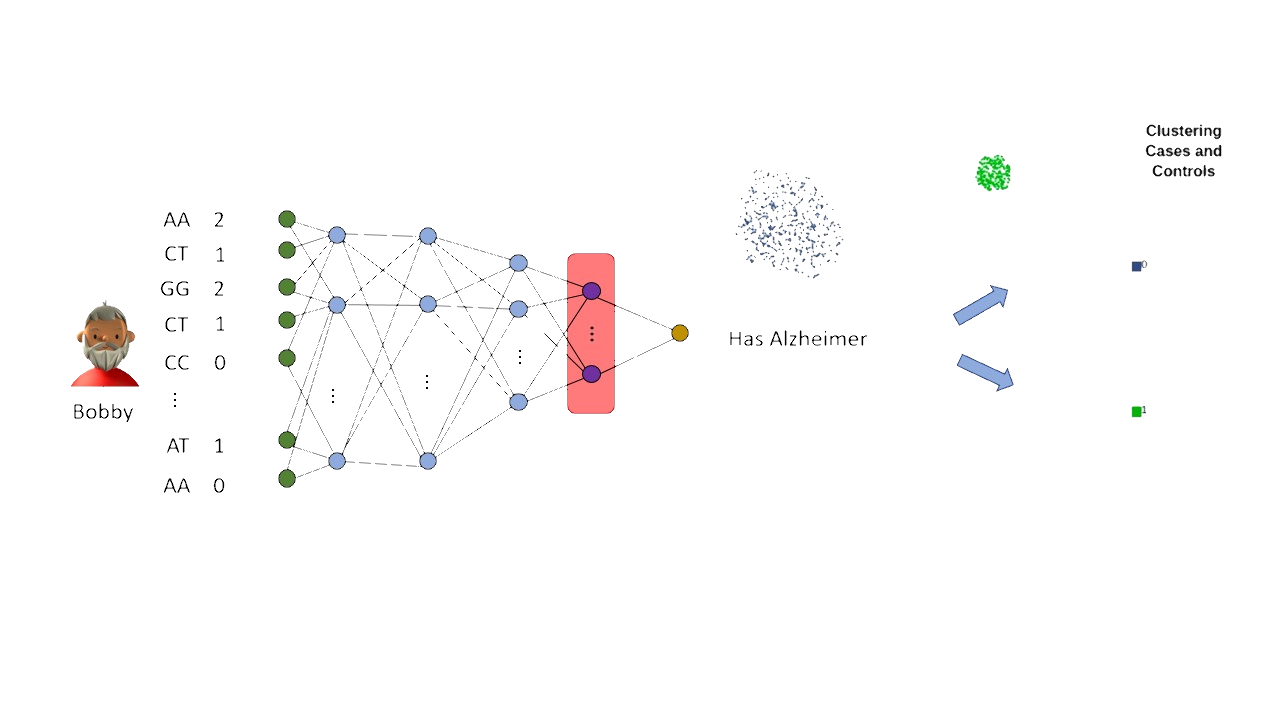
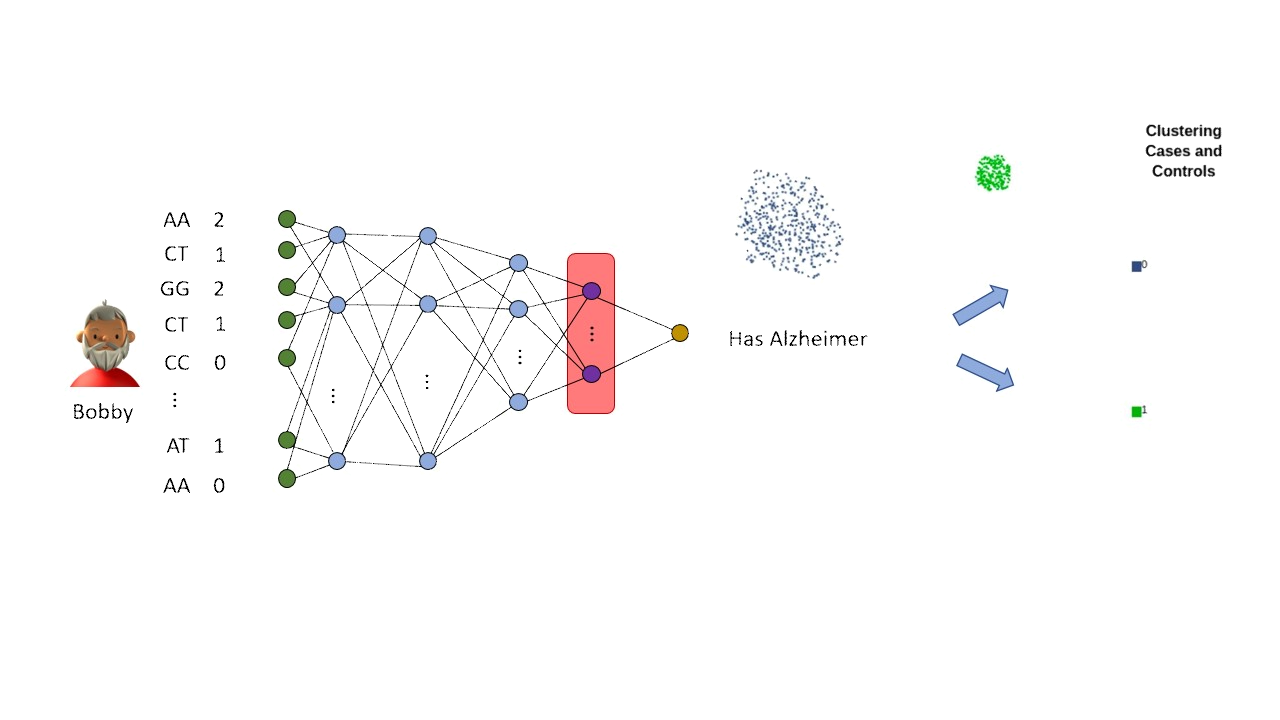
going strong

diff --git a/phd_project/index.html b/phd_project/index.html
@@ -106,9 +106,9 @@
           </section>
           <section>
             <h1 style="font-size:40px">
-              Introducing machine learning
+              Introducing deep learning
             </h1>
-            <img class="cropped_prs" data-src="img/04_interaction.png">
+            <img class="cropped_nn" data-src="img/06_NN.png">
           </section>
       </section>
 
@@ -120,14 +120,22 @@
           </h1>
         </section>
         <section>
-          <p style="font-size:20px">
+          <h1 style="font-size:40px">
             Autoencoder
+          </h1>
+          <p style="font-size:20px">
+            Dimensionality reduction deep learning model
           </p>
+          <img class="cropped_auto" data-src="img/07_total_project.png">
         </section>
         <section>
-          <p style="font-size:20px">
+          <h1 style="font-size:40px">
             Clustering and novel method for PRS
+          </h1>
+          <p style="font-size:20px">
+            Finding centroïdes
           </p>
+          <img class="cropped_centr" data-src="img/08_novel_prs.png">
         </section>
       </section>
 
@@ -139,15 +147,22 @@
           </h1>
         </section>
         <section>
+          <h1 style="font-size:40px">
+            Population stratification and Linkage Disequilibrium
+          </h1>
           <p style="font-size:20px">
-            Linkage desiquilibrium
+            Genomics: biased introduced
           </p>
+          <img class="cropped_ld" data-src="img/09_pop_strat_and_LD.png">
+        </section>
+        <section>
+          <h1 style="font-size:40px">
+            The curse of dimensionnality
+          </h1>
           <p style="font-size:20px">
-            Population stratification
+            ML: Terrible performance when too many features
           </p>
-          <p style="font-size:20px">
-            The curse of dimesionnality
-          </p>
+          <img class="cropped_curse" data-src="img/10_curse.png">
         </section>
       </section>
 <!--  Slide 07 Testing it out -->
@@ -161,21 +176,27 @@
     <h1 style="font-size:40px">
       First generated dataset
     </h1>
+    <p>
+      introduce list
+    </p>
   </section>
   <section>
     <h1 style="font-size:40px">
       Results
     </h1>
+    <img data-src="img/11_succes_cluster.png">
   </section>
   <section>
     <h1 style="font-size:40px">
       Second generated dataset
     </h1>
+    <img class="cropped_data" data-src="img/12_graph_snp_count.png">
   </section>
   <section>
     <h1 style="font-size:40px">
       Results
     </h1>
+    <img data-src="img/13_fail_cluster.png">
   </section>
 </section>
 <!--  ENDR -->

diff --git a/phd_project/style.css b/phd_project/style.css
@@ -22,6 +22,37 @@
     object-fit: cover;
 }
 
+.cropped_auto {
+    width: 1200px; /* width of container */
+    height: 300px; /* height of container */
+    object-fit: cover;
+}
+
+.cropped_centr {
+    width: 3000px; /* width of container */
+    height: 400px; /* height of container */
+    object-fit: cover;
+}
+
+.cropped_ld {
+    width: 3000px; /* width of container */
+    height: 230px; /* height of container */
+    object-fit: cover;
+}
+
+.cropped_curse {
+    width: 3000px; /* width of container */
+    height: 500px; /* height of container */
+    object-fit: cover;
+}
+
+.cropped_data {
+    width: 3000px; /* width of container */
+    height: 250px; /* height of container */
+    object-fit: cover;
+}
+
+
 /* Three image containers (use 25% for four, and 50% for two, etc) */
 .column {
   float: left;
